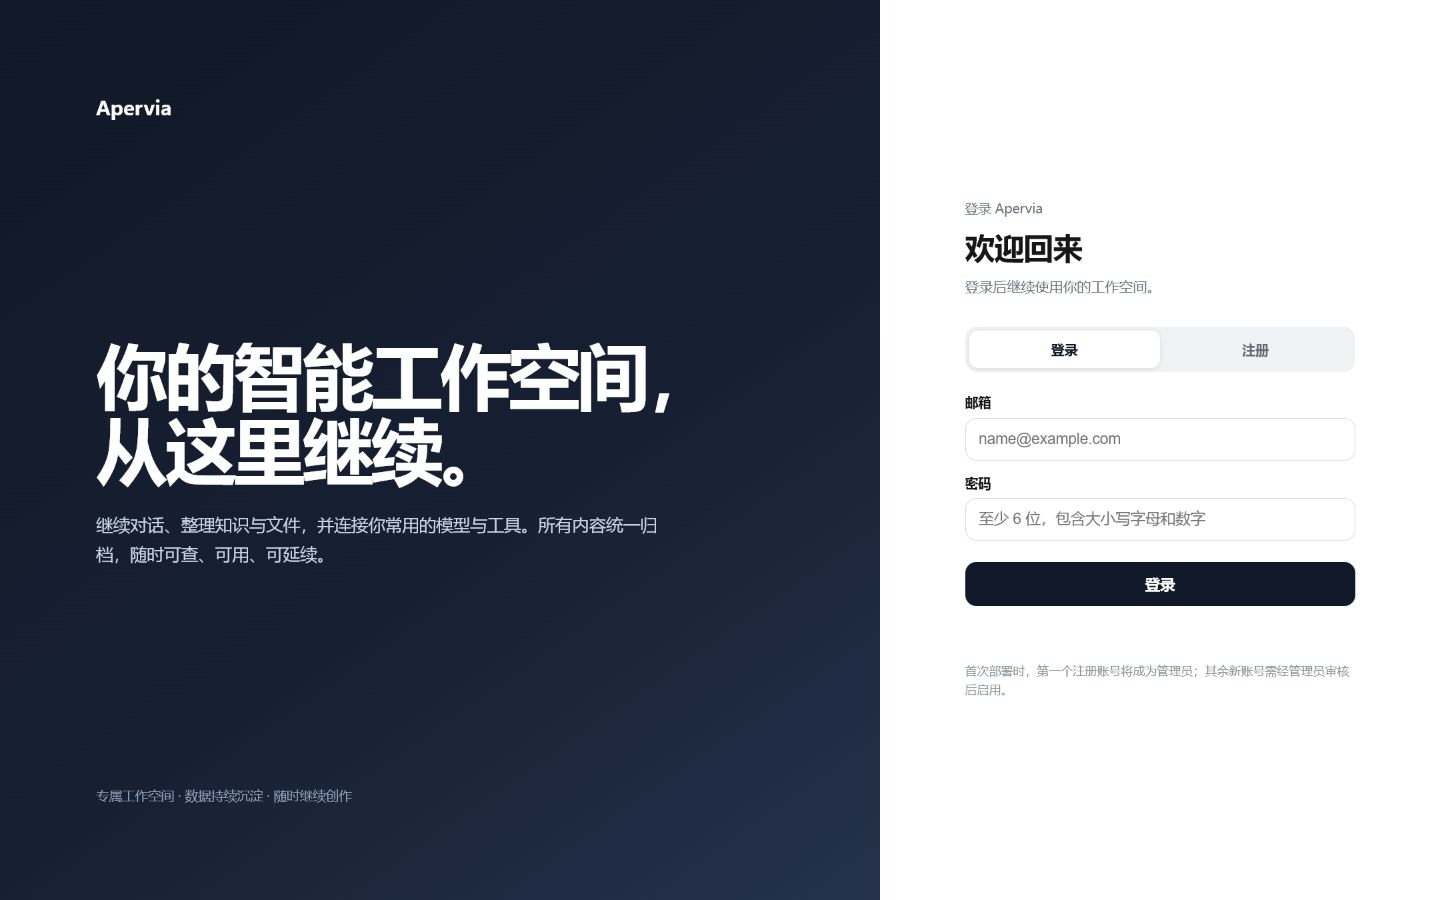
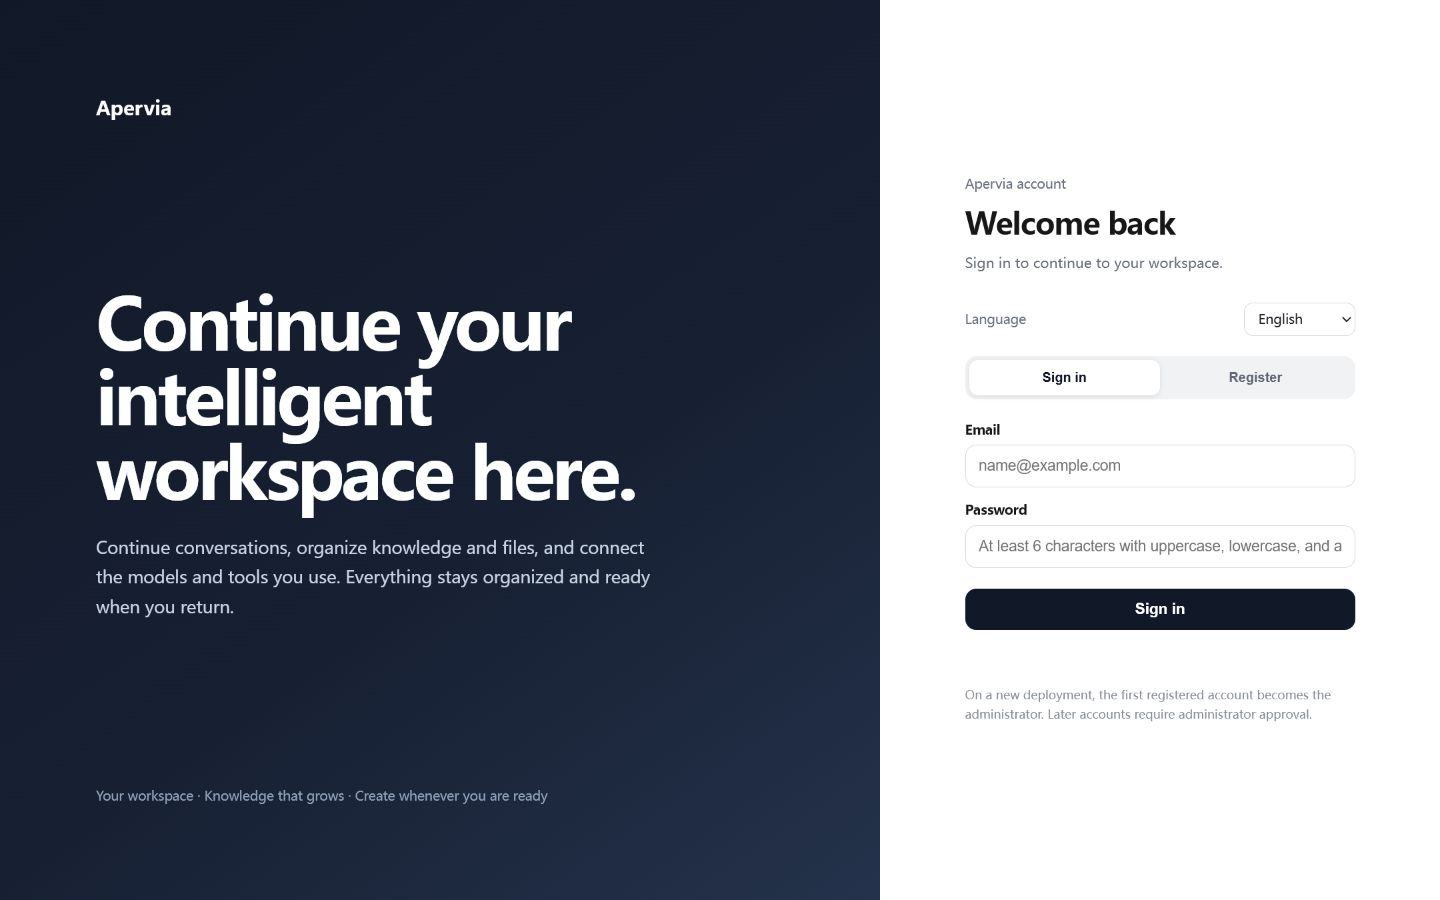
Prepare Apervia 1.0.1 release

diff --git a/tests/test_platform_release_announcement.py b/tests/test_platform_release_announcement.py
@@ -91,18 +91,18 @@ class PlatformReleaseAnnouncementTests(unittest.TestCase):
             },
         }
 
-    def test_release_1_0_0_is_loaded_from_project_files(self):
+    def test_release_1_0_1_is_loaded_from_project_files(self):
         service = self.namespace['_platform_release_announcement_service']
         payload = service.current_for_user(self.user['id'], 'en')
         self.assertTrue(payload['enabled'])
-        self.assertEqual('v1.0.0', payload['id'])
-        self.assertEqual('Apervia 1.0.0', payload['version'])
-        self.assertEqual('Apervia 1.0.0 is now available', payload['title'])
+        self.assertEqual('v1.0.1', payload['id'])
+        self.assertEqual('Apervia 1.0.1', payload['version'])
+        self.assertEqual('Apervia 1.0.1 improves clarity and consistency', payload['title'])
         self.assertEqual('en', payload['language'])
         self.assertFalse(payload['acknowledged'])
 
         chinese = service.current_for_user(self.user['id'], 'zh-CN')
-        self.assertEqual('Apervia 1.0.0 正式发布', chinese['title'])
+        self.assertEqual('Apervia 1.0.1 体验与一致性更新', chinese['title'])
         self.assertEqual('我知道了', chinese['button_text'])
         self.assertEqual('zh-CN', chinese['language'])
         self.assertEqual(payload['id'], chinese['id'])
@@ -116,7 +116,7 @@ class PlatformReleaseAnnouncementTests(unittest.TestCase):
 
     def test_receipt_is_account_scoped_and_removed_with_account(self):
         service = self.namespace['_platform_release_announcement_service']
-        service.acknowledge(self.user['id'], 'v1.0.0')
+        service.acknowledge(self.user['id'], 'v1.0.1')
         self.assertTrue(service.current_for_user(self.user['id'])['acknowledged'])
 
         second = self.namespace['_auth_identity_register']('second@example.com', 'StrongA1', 'Second')
@@ -137,7 +137,7 @@ class PlatformReleaseAnnouncementTests(unittest.TestCase):
         release_text = (ROOT / 'release/announcement.md').read_text(encoding='utf-8')
         chinese_release_text = (ROOT / 'release/announcement.zh-CN.md').read_text(encoding='utf-8')
         changelog = (ROOT / 'CHANGELOG.md').read_text(encoding='utf-8')
-        self.assertEqual('1.0.0', version)
+        self.assertEqual('1.0.1', version)
         self.assertIn(f'id: v{version}', release_text)
         self.assertIn(f'version: {version}', release_text)
         self.assertIn(f'id: v{version}', chinese_release_text)

diff --git a/tests/test_docker_runtime_config.py b/tests/test_docker_runtime_config.py
@@ -120,7 +120,7 @@ class DockerRuntimeConfigTests(unittest.TestCase):
     def test_deployment_docs_cover_versioned_recovery(self):
         readme = (ROOT / 'README.md').read_text(encoding='utf-8')
         readme_zh = (ROOT / 'README.zh-CN.md').read_text(encoding='utf-8')
-        self.assertIn('APP_IMAGE=ghcr.io/<owner>/<repository>:1.0.0', readme)
+        self.assertIn('APP_IMAGE=ghcr.io/<owner>/<repository>:1.0.1', readme)
         self.assertIn('apervia-data.tar.gz', readme)
         self.assertIn('Restoring overwrites the current volume data', readme)
         self.assertIn('Rolling back an image does not roll back the database format', readme)

diff --git a/docs/RELEASE_GUIDE.md b/docs/RELEASE_GUIDE.md
@@ -99,28 +99,28 @@ Keeping image publication on formal tags prevents the same App and Sandbox image
 
 Before preparing a release:
 
-1. Update the root `VERSION` file. The current formal version is `1.0.0`.
-2. Move `[Unreleased]` content into `## [1.0.0] - 2026-07-23`.
-3. Update `release/announcement.md`; its `id` must be `v1.0.0` and its `version` must be `1.0.0`.
+1. Update the root `VERSION` file. The current formal version is `1.0.1`.
+2. Move `[Unreleased]` content into `## [1.0.1] - 2026-07-24`.
+3. Update `release/announcement.md`; its `id` must be `v1.0.1` and its `version` must be `1.0.1`.
 4. Run the tests and confirm that the version file, changelog, and project announcement agree.
 5. Merge the change and wait for `main` verification, then create an annotated tag:
 
 ```bash
 git switch main
 git pull --ff-only origin main
-git tag -a v1.0.0 -m "Apervia 1.0.0"
-git push origin v1.0.0
+git tag -a v1.0.1 -m "Apervia 1.0.1"
+git push origin v1.0.1
 ```
 
 The tag publishes these image tags:
 
 ```text
 ghcr.io/wdyh1314520-gif/apervia-open-source:latest
-ghcr.io/wdyh1314520-gif/apervia-open-source:1.0.0
+ghcr.io/wdyh1314520-gif/apervia-open-source:1.0.1
 ghcr.io/wdyh1314520-gif/apervia-open-source:1.0
 ghcr.io/wdyh1314520-gif/apervia-open-source:sha-<commit>
 ghcr.io/wdyh1314520-gif/apervia-open-source-sandbox:latest
-ghcr.io/wdyh1314520-gif/apervia-open-source-sandbox:1.0.0
+ghcr.io/wdyh1314520-gif/apervia-open-source-sandbox:1.0.1
 ghcr.io/wdyh1314520-gif/apervia-open-source-sandbox:1.0
 ghcr.io/wdyh1314520-gif/apervia-open-source-sandbox:sha-<commit>
 ```
@@ -128,7 +128,7 @@ ghcr.io/wdyh1314520-gif/apervia-open-source-sandbox:sha-<commit>
 After the image workflow succeeds, create the GitHub Release:
 
 ```bash
-gh release create v1.0.0 --title "Apervia 1.0.0" --notes-file release/announcement.md
+gh release create v1.0.1 --title "Apervia 1.0.1" --notes-file release/announcement.md
 ```
 
 `VERSION` is the single source of truth for the project version. Git tags include the `v` prefix, while Docker image tags use the bare version. Before publishing, verify `VERSION`, `CHANGELOG.md`, `release/announcement.md`, and the tag again.
@@ -153,8 +153,8 @@ Recommended structure:
 
 Writing rules:
 
-- **Announcement ID**: `v` plus `VERSION`; currently `v1.0.0`.
-- **Version**: Exactly match the root `VERSION`; currently `1.0.0`.
+- **Announcement ID**: `v` plus `VERSION`; currently `v1.0.1`.
+- **Version**: Exactly match the root `VERSION`; currently `1.0.1`.
 - **Category**: Use `update`, or `security` for a security release.
 - **Publication date**: Use the actual public release date.
 - **Title**: Describe the outcome, not internal function names, debugging steps, or commit hashes.
@@ -167,8 +167,8 @@ The announcement body is not written to the runtime database. The database store
 Pin complete versions in production instead of following `latest` indefinitely:
 
 ```dotenv
-APP_IMAGE=ghcr.io/wdyh1314520-gif/apervia-open-source:1.0.0
-SANDBOX_DOCKER_IMAGE=ghcr.io/wdyh1314520-gif/apervia-open-source-sandbox:1.0.0
+APP_IMAGE=ghcr.io/wdyh1314520-gif/apervia-open-source:1.0.1
+SANDBOX_DOCKER_IMAGE=ghcr.io/wdyh1314520-gif/apervia-open-source-sandbox:1.0.1
 ```
 
 Back up the data volume before upgrading, and then run:
@@ -192,4 +192,4 @@ Rolling back an image does not roll back the database format. Do not roll back o
 
 ## 10. Emergency fixes
 
-Create a dedicated branch from the latest `main` even for an emergency. Include only the minimum fix and its regression test. After merging, verify the `sha-<commit>` image before deciding whether to publish a patch version, such as `1.0.1` after `1.0.0`. Never overwrite an existing release tag.
+Create a dedicated branch from the latest `main` even for an emergency. Include only the minimum fix and its regression test. After merging, verify the `sha-<commit>` image before deciding whether to publish a patch version, such as `1.0.2` after `1.0.1`. Never overwrite an existing release tag.

diff --git a/release/announcement.md b/release/announcement.md
@@ -1,28 +1,28 @@
 <!--
-id: v1.0.0
-version: 1.0.0
-title: Apervia 1.0.0 is now available
-published_at: 2026-07-23
+id: v1.0.1
+version: 1.0.1
+title: Apervia 1.0.1 improves clarity and consistency
+published_at: 2026-07-24
 category: update
 button_text: Got it
 enabled: true
 -->
 
-## Welcome to Apervia 1.0.0
+## Apervia 1.0.1 is ready
 
-This is the first formal release of Apervia. It brings conversations, files, knowledge bases, web search, MCP tools, and an isolated sandbox into one workspace, with a complete account and operations model for Docker deployments.
+This update makes the public release match the current Docker experience more closely, with more complete language coverage, a leaner authentication runtime, and clearer deployment guidance.
 
-### Included in this release
+### What's improved
 
-- **Unified workspace**: Manage regular conversations, temporary chats, attachments, generated files, and long-term knowledge bases in one place.
-- **Separate API modes**: Configure and run Chat Completions and Responses independently so the protocols do not interfere with each other.
-- **MCP integration**: Use a server-side MCP directory, OAuth authorization, encrypted credentials, and permission levels.
-- **Secure sandbox**: Run code and document tasks through the standalone Sandbox Runner with networking disabled, a read-only root filesystem, and minimal privileges by default.
-- **Account and data management**: Manage registration approval, roles, sessions, backups, auditing, and storage governance.
-- **Production container delivery**: Deploy matching multi-architecture App and Sandbox images with fixed-version upgrade and rollback support.
+- **Complete language switching**: Sign-in, settings, activity, reasoning, MCP, release information, and administration now follow the language selected in the app.
+- **Cleaner authentication runtime**: Obsolete SMTP, invite-code, editable legal-document, local-token, and legacy administration paths have been removed from the published application.
+- **Clearer deployment**: The setup guide now covers the correct clone directory, explicit Sandbox image pulling, complete CI checks, and current English screenshots.
+- **Quieter defaults**: Startup URL advertising, the obsolete third-party API default, and unused voice presets have been removed.
+- **Version awareness**: Account settings can check the official GitHub Release feed for a newer Apervia version.
 
-### Getting started
+### Upgrade notes
 
-- After your first sign-in, open **Settings** and configure the required API key, API type, and model for each mode.
-- When using search or model services running on the host, enter an address that the container can reach; do not use the container's own `127.0.0.1`.
+- Back up the `apervia_app3_data` volume before upgrading.
+- Update both the App and Sandbox image references to `1.0.1`, then pull and recreate the services together.
+- Chat Completions and Responses remain independent and keep their existing configuration boundaries.
 - Select **Got it** to acknowledge this release for your account. Closing the announcement only hides it temporarily on the current page.

diff --git a/release/announcement.zh-CN.md b/release/announcement.zh-CN.md
@@ -1,28 +1,28 @@
 <!--
-id: v1.0.0
-version: 1.0.0
-title: Apervia 1.0.0 正式发布
-published_at: 2026-07-23
+id: v1.0.1
+version: 1.0.1
+title: Apervia 1.0.1 体验与一致性更新
+published_at: 2026-07-24
 category: update
 button_text: 我知道了
 enabled: true
 -->
 
-## 欢迎使用 Apervia 1.0.0
+## Apervia 1.0.1 已准备就绪
 
-这是 Apervia 的首个正式版本。它将对话、文件、知识库、联网搜索、MCP 工具与隔离沙盒整合到同一个工作空间中，并为 Docker 部署提供完整的账号与运维体系。
+本次更新让公开版本与当前 Docker 使用体验保持一致，进一步完善双语覆盖、精简认证运行时，并改进部署说明。
 
-### 本次发布内容
+### 本次改进
 
-- **统一工作空间**：集中管理普通对话、临时聊天、附件、生成文件与长期知识库。
-- **独立 API 模式**：分别配置和运行 Chat Completions 与 Responses，两种协议互不干扰。
-- **MCP 集成**：提供服务端 MCP 目录、OAuth 授权、加密凭据和权限分级。
-- **安全沙盒**：通过独立 Sandbox Runner 执行代码和文档任务，默认关闭网络、只读根文件系统并使用最小权限。
-- **账号与数据管理**：提供注册审核、角色、会话、备份、审计和存储治理能力。
-- **生产容器交付**：提供版本一致的多架构 App 与 Sandbox 镜像，并支持固定版本升级和回滚。
+- **完整语言切换**：登录、设置、活动、思考过程、MCP、版本公告及后台界面都会跟随应用内选择的语言。
+- **精简认证运行时**：公开应用已删除旧 SMTP、邀请码、可编辑法律文档、本地令牌和旧后台入口。
+- **清晰部署流程**：教程补充正确克隆目录、Sandbox 镜像拉取、完整 CI 检查和当前英文界面截图。
+- **更安静的默认行为**：删除启动网址宣传、旧第三方默认接口和未使用的语音预设。
+- **版本检查**：账号设置可通过官方 GitHub Release 信息检查是否存在新版本。
 
-### 开始使用
+### 升级说明
 
-- 首次登录后，请打开**设置**，分别为所需模式配置 API 密钥、API 类型和模型。
-- 使用宿主机上的搜索或模型服务时，请填写容器能够访问的地址，不要使用容器自身的 `127.0.0.1`。
+- 升级前请备份 `apervia_app3_data` 数据卷。
+- 将 App 与 Sandbox 镜像版本同时更新为 `1.0.1`，再一并拉取并重建服务。
+- Chat Completions 与 Responses 继续保持独立，不会混用已有配置。
 - 点击**我知道了**后，本账号将确认此版本；仅关闭公告只会在当前页面临时隐藏。

diff --git a/CHANGELOG.md b/CHANGELOG.md
@@ -6,6 +6,27 @@ This file records important changes that affect usage, deployment, data, or main
 
 None.
 
+## [1.0.1] - 2026-07-24
+
+### Changed
+
+- Completed English and Simplified Chinese coverage across sign-in, settings, activity, reasoning, MCP, release announcements, and administration surfaces.
+- Replaced the README product screenshots with current English interface captures.
+- Updated deployment guidance for sandbox image pulling, full CI verification, and the correct cloned directory.
+- Added manual version checks against the official GitHub Release feed.
+
+### Fixed
+
+- Removed startup URL advertising and the obsolete third-party default API endpoint.
+- Ensured published authentication modules match the active password-based Docker sign-in flow.
+- Corrected English environment-template comments and release documentation.
+
+### Removed
+
+- Obsolete SMTP runtime, invite-code, editable legal-document, local-admin-token, rate-admin, and blacklist-admin code paths.
+- Unused Cloud Mist and Vector Engine voice presets.
+- Internal assessment, split provenance, temporary recovery, and local tooling references from the public source tree.
+
 ## [1.0.0] - 2026-07-23
 
 ### Added
@@ -39,5 +60,6 @@ None.
 - Temporary execution containers enforce disabled networking, a read-only root filesystem, minimal privileges, and task-scoped temporary volumes.
 - MCP tokens are stored on the server with Fernet encryption.
 
-[Unreleased]: https://github.com/wdyh1314520-gif/apervia-open-source/compare/v1.0.0...HEAD
+[Unreleased]: https://github.com/wdyh1314520-gif/apervia-open-source/compare/v1.0.1...HEAD
+[1.0.1]: https://github.com/wdyh1314520-gif/apervia-open-source/compare/v1.0.0...v1.0.1
 [1.0.0]: https://github.com/wdyh1314520-gif/apervia-open-source/releases/tag/v1.0.0

diff --git a/README.md b/README.md
@@ -16,7 +16,7 @@
 
 <p align="center">
   <a href="https://github.com/wdyh1314520-gif/apervia-open-source/actions/workflows/publish-images.yml"><img src="https://github.com/wdyh1314520-gif/apervia-open-source/actions/workflows/publish-images.yml/badge.svg" alt="Verification and image publishing status"></a>
-  <img src="https://img.shields.io/badge/version-1.0.0-6C86BD" alt="Apervia 1.0.0">
+  <img src="https://img.shields.io/badge/version-1.0.1-6C86BD" alt="Apervia 1.0.1">
   <img src="https://img.shields.io/badge/Docker-amd64%20%7C%20arm64-2496ED?logo=docker&logoColor=white" alt="Docker amd64 and arm64">
   <img src="https://img.shields.io/badge/Python-3.12-3776AB?logo=python&logoColor=white" alt="Python 3.12">
 </p>
@@ -166,7 +166,7 @@ docker compose --profile sandbox-build config --quiet
 For deployments published from another repository, use a versioned image reference such as:
 
 ```dotenv
-APP_IMAGE=ghcr.io/<owner>/<repository>:1.0.0
+APP_IMAGE=ghcr.io/<owner>/<repository>:1.0.1
 ```
 
 A standard backup archive may be named `apervia-data.tar.gz`. Restoring overwrites the current volume data, so back up the current state and verify the target volume name first.

diff --git a/README.zh-CN.md b/README.zh-CN.md
@@ -16,7 +16,7 @@
 
 <p align="center">
   <a href="https://github.com/wdyh1314520-gif/apervia-open-source/actions/workflows/publish-images.yml"><img src="https://github.com/wdyh1314520-gif/apervia-open-source/actions/workflows/publish-images.yml/badge.svg" alt="验证与镜像发布状态"></a>
-  <img src="https://img.shields.io/badge/version-1.0.0-6C86BD" alt="Apervia 1.0.0">
+  <img src="https://img.shields.io/badge/version-1.0.1-6C86BD" alt="Apervia 1.0.1">
   <img src="https://img.shields.io/badge/Docker-amd64%20%7C%20arm64-2496ED?logo=docker&logoColor=white" alt="Docker amd64 与 arm64">
   <img src="https://img.shields.io/badge/Python-3.12-3776AB?logo=python&logoColor=white" alt="Python 3.12">
 </p>
@@ -164,7 +164,7 @@ docker compose --profile sandbox-build config --quiet
 发布到其他仓库时，版本化镜像写法为：
 
 ```dotenv
-APP_IMAGE=ghcr.io/<owner>/<repository>:1.0.0
+APP_IMAGE=ghcr.io/<owner>/<repository>:1.0.1
 ```
 
 标准备份文件可命名为 `apervia-data.tar.gz`。恢复会覆盖当前卷内数据，执行前必须先备份当前状态并核对目标卷名。

diff --git a/docs/OPERATIONS.md b/docs/OPERATIONS.md
@@ -76,8 +76,8 @@ This is a destructive operation. Confirm the volume name and archive name, and v
 3. Pin both App and Sandbox images in `.env` to the same release version:
 
 ```dotenv
-APP_IMAGE=ghcr.io/wdyh1314520-gif/apervia-open-source:1.0.0
-SANDBOX_DOCKER_IMAGE=ghcr.io/wdyh1314520-gif/apervia-open-source-sandbox:1.0.0
+APP_IMAGE=ghcr.io/wdyh1314520-gif/apervia-open-source:1.0.1
+SANDBOX_DOCKER_IMAGE=ghcr.io/wdyh1314520-gif/apervia-open-source-sandbox:1.0.1
 ```
 
 4. Pull and recreate the containers:
